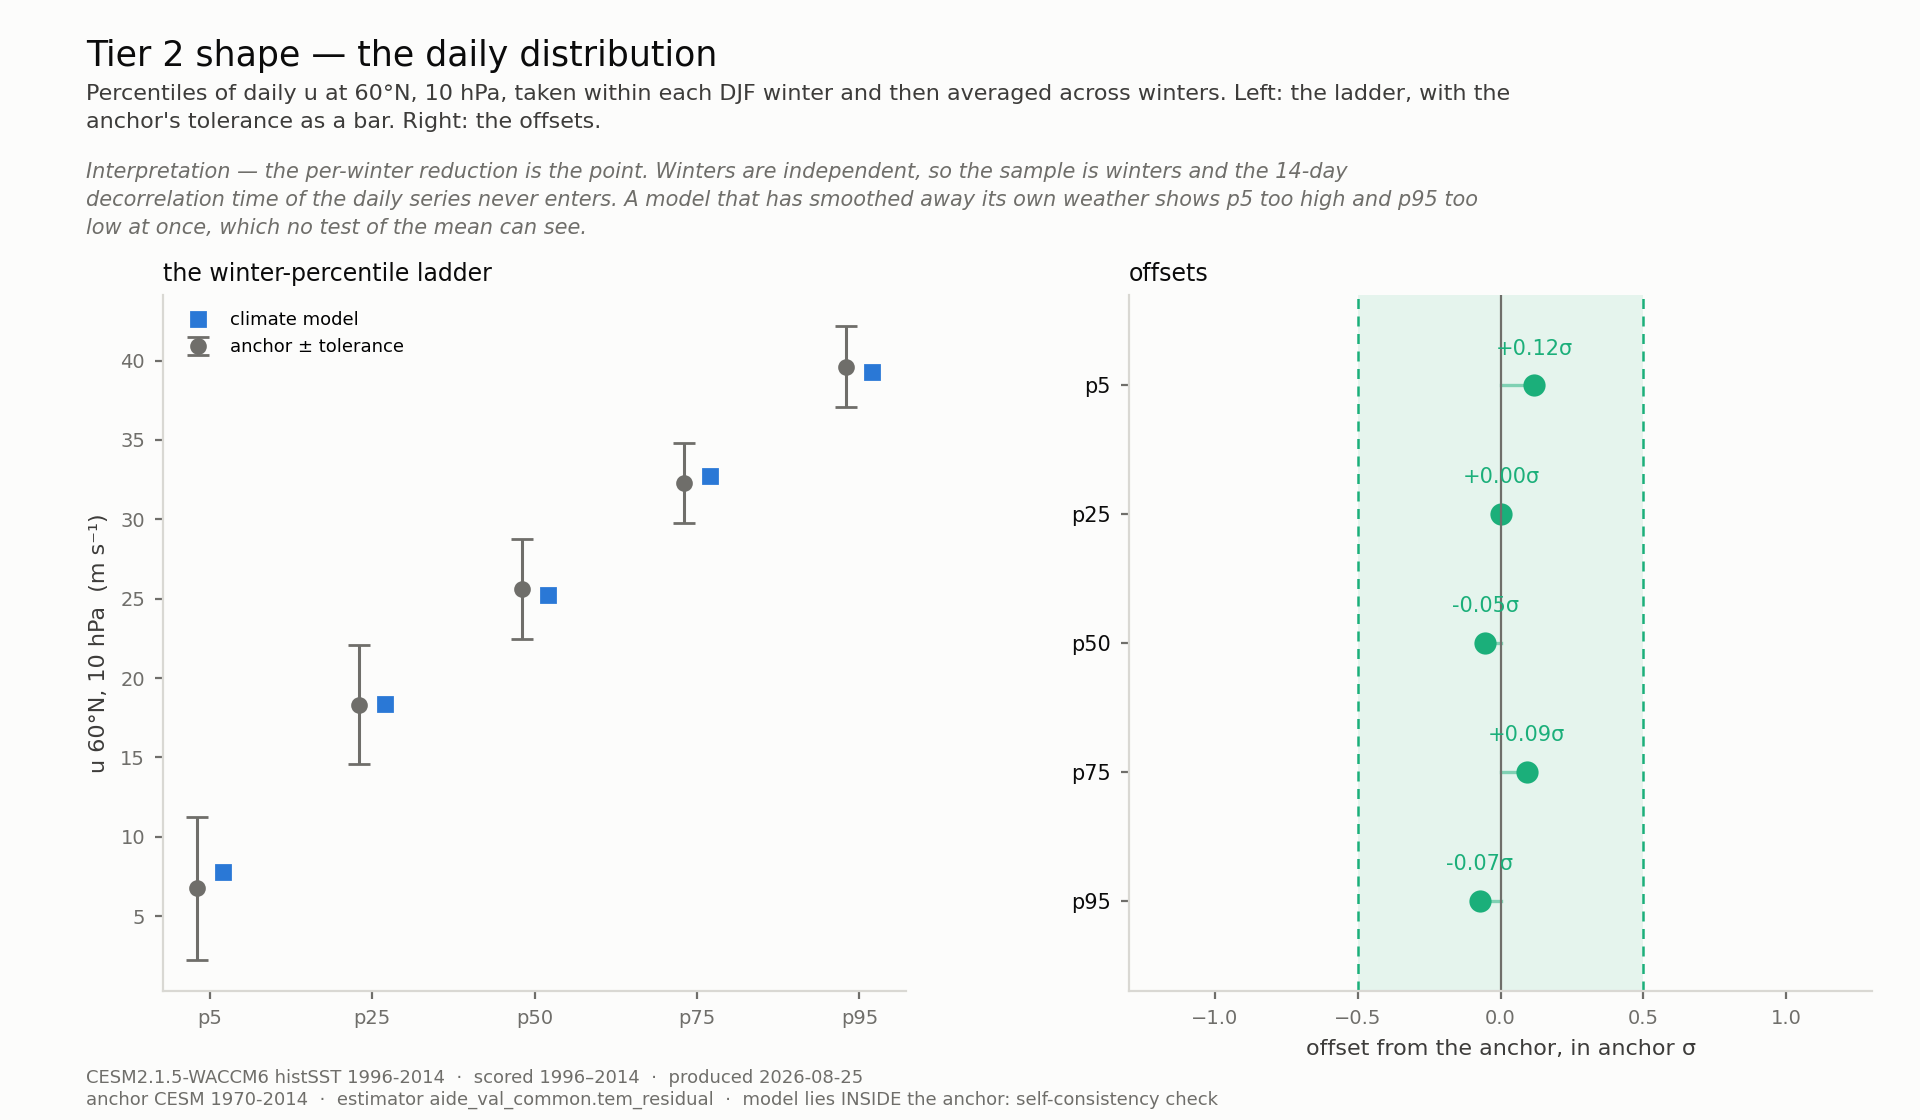
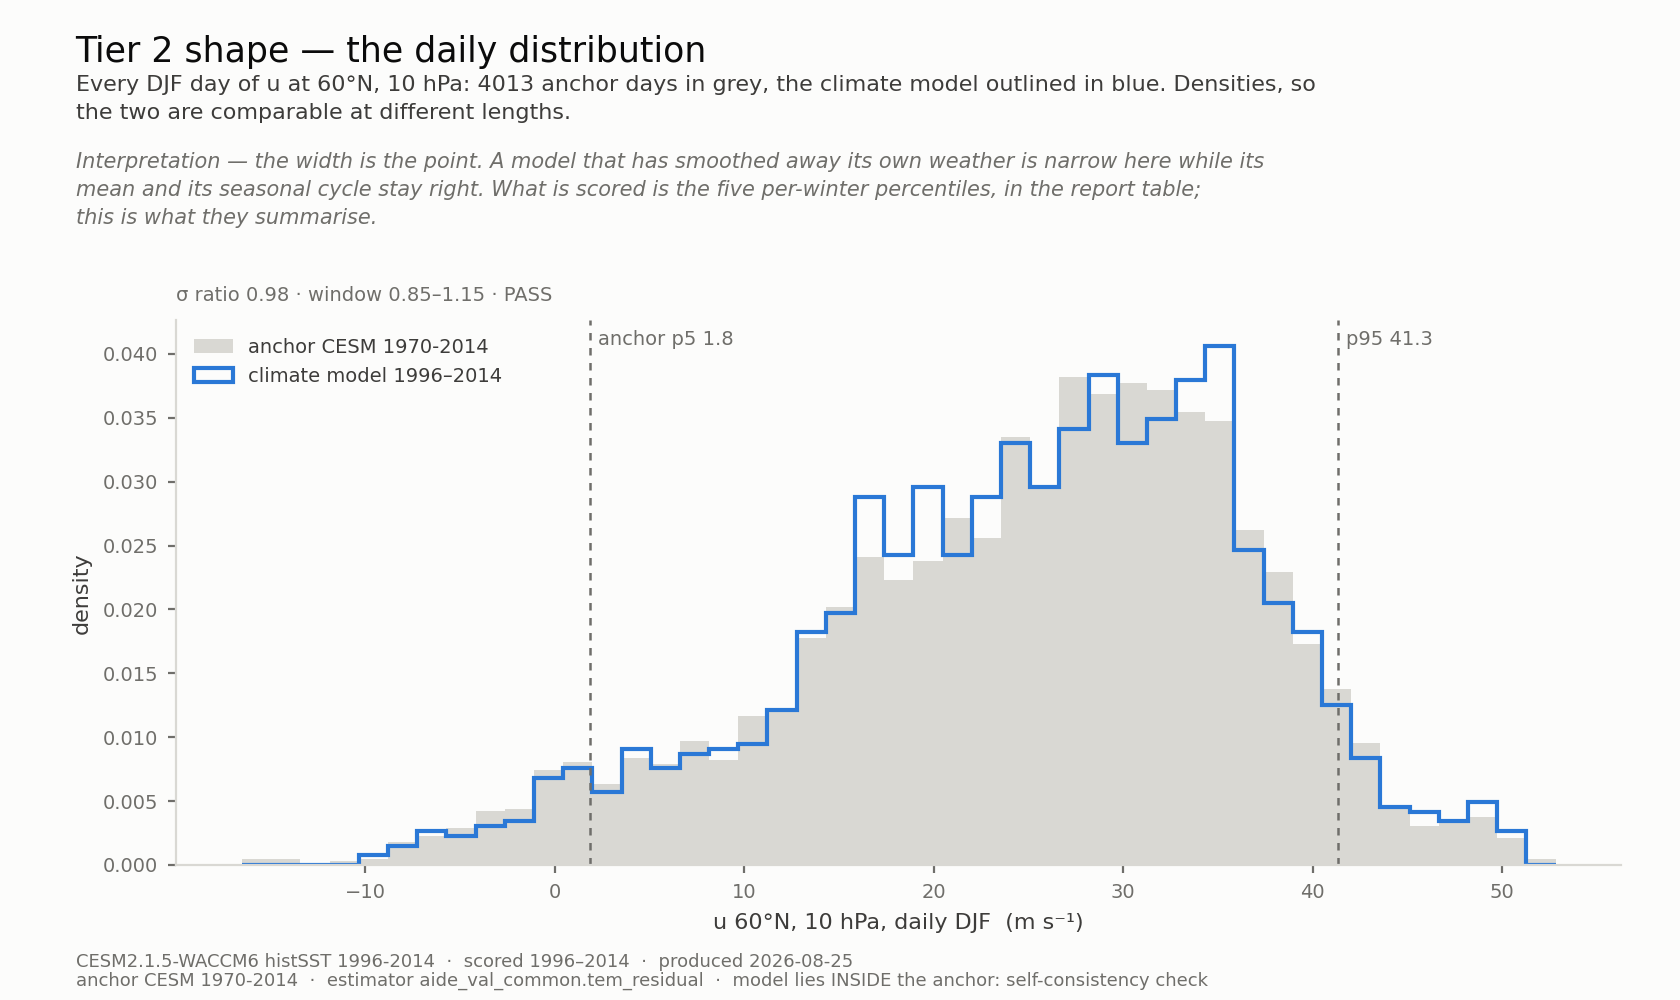
Make the daily distribution figure an actual distribution
It was a percentile ladder with error bars beside a panel of offsets in sigma -
two abstractions away from the thing being described. It is now one panel: the
density of every DJF day of u at 60N, anchor filled grey and climate model
outlined in blue on shared bins, with the anchor p5 and p95 marked and the
sigma ratio on the subtitle.

Densities rather than counts, so a 19-year model and a 45-year anchor are
comparable on the same axes. The five per-winter percentiles are still what is
scored and still in the report table; the interpretation line says so, since
the figure no longer shows a verdict.

The climate-model days are reconstructed under the rule 17 already applies -
the daily series carries no year labels, so it can only be subset when the
window covers whole segments - and the figure follows 17's own availability
verdict rather than re-deriving it. When the window is not segment-aligned the
anchor is drawn alone and the subtitle says why.

fig_daily_distribution now takes the series, so its signature gains (S, segs).

diff --git a/AIDE-atmosphere/scripts/18_validation_figures.py b/AIDE-atmosphere/scripts/18_validation_figures.py
@@ -317,43 +317,60 @@ def fig_seasonal(A, res):
 
 
 # ------------------------------------------------------- shape: daily distribution
-def fig_daily_distribution(A, res):
-    tau = A["daily_DJF_u60N"]["tau_days"]
-    fig = newfig(9.6, 5.6, "Tier 2 shape — the daily distribution",
-                 "Percentiles of daily u at 60°N, 10 hPa, taken within each DJF "
-                 "winter and then averaged across winters. Left: the ladder, with "
-                 "the anchor's tolerance as a bar. Right: the offsets.",
-                 f"the per-winter reduction is the point. Winters are independent, "
-                 f"so the sample is winters and the {tau:.0f}-day decorrelation time "
-                 f"of the daily series never enters. A model that has smoothed away "
-                 f"its own weather shows p5 too high and p95 too low at once, which "
-                 f"no test of the mean can see.")
-    gs = fig.add_gridspec(1, 2, wspace=0.30, width_ratios=[1.0, 1.0])
-    qs = list(A["daily_distribution"]["percentiles"].keys())
+def fig_daily_distribution(A, res, S, segs):
+    a = A["daily_DJF_u60N"]
+    m = res["tier2_variance"]["daily_DJF_u60N"]
+    lo, hi = res["climate_model_period"]
 
-    ax = style(fig.add_subplot(gs[0, 0]), "the winter-percentile ladder")
-    xs = np.arange(len(qs))
-    a_mu = [res["shape_daily_distribution"][q]["anchor"] for q in qs]
-    t_mu = [res["shape_daily_distribution"][q]["climate_model"] for q in qs]
-    tol = [res["shape_daily_distribution"][q]["tolerance"] for q in qs]
-    ax.errorbar(xs - 0.08, a_mu, yerr=tol, fmt="o", color=MUTED, ms=5, capsize=4,
-                lw=1.1, label="anchor ± tolerance")
-    ax.plot(xs + 0.08, t_mu, "s", color=BLUE, ms=5, label="climate model")
-    ax.set_xticks(xs); ax.set_xticklabels(qs, fontsize=7)
-    ax.set_ylabel("u 60°N, 10 hPa  (m s⁻¹)", color=INK2, fontsize=8)
-    ax.legend(fontsize=6.5, frameon=False, loc="upper left")
+    anchor = np.array(sum((S[s]["_u60n_djf_daily"] for s in segs), []), float)
+    # Same rule 17 applies: the daily series carries no year labels, so it can only
+    # be subset when the window covers whole segments. 17 has already decided that,
+    # so follow its verdict rather than re-deriving it.
+    model = None
+    if m.get("available", True):
+        model = np.array(sum((S[s]["_u60n_djf_daily"] for s in segs
+                              if np.asarray(S[s]["_annual_years"], float).min() >= lo
+                              and np.asarray(S[s]["_annual_years"], float).max() <= hi),
+                             []), float)
 
-    ax2 = style(fig.add_subplot(gs[0, 1]), "offsets")
-    keys = qs[::-1]
-    offs = [res["shape_daily_distribution"][q]["offset_in_sigma"] for q in keys]
-    for i, q in enumerate(keys):
-        _offset_row(ax2, i, res["shape_daily_distribution"][q])
-    _tolerance_axis(ax2, offs, "offset from the anchor, in anchor σ", len(keys))
-    ax2.set_yticks(range(len(keys)))
-    ax2.set_yticklabels(keys, fontsize=7.5, color=INK)
+    fig = newfig(8.4, 5.0, "Tier 2 shape — the daily distribution",
+                 f"Every DJF day of u at 60°N, 10 hPa: {len(anchor)} anchor days in "
+                 f"grey, the climate model outlined in blue. Densities, so the two "
+                 f"are comparable at different lengths.",
+                 "the width is the point. A model that has smoothed away its own "
+                 "weather is narrow here while its mean and its seasonal cycle stay "
+                 "right. What is scored is the five per-winter percentiles, in the "
+                 "report table; this is what they summarise.")
+    ax = style(fig.add_subplot(111), None,
+               f"σ ratio {m['ratio']:.2f} · window {m['window'][0]:.2f}–"
+               f"{m['window'][1]:.2f} · "
+               f"{'PASS' if m.get('passes') else 'n/a'}"
+               if m.get("available", True) else
+               "climate-model days unavailable: window is not segment-aligned")
 
-    fig.subplots_adjust(left=0.085, right=0.975, top=fig.text_bottom - 0.035,
-                        bottom=0.115)
+    span = (anchor.min(), anchor.max()) if model is None else (
+        min(anchor.min(), model.min()), max(anchor.max(), model.max()))
+    bins = np.linspace(span[0], span[1], 46)
+    ax.hist(anchor, bins=bins, density=True, color=RULE, lw=0,
+            label=f"anchor CESM {res['anchor_period']}")
+    if model is not None:
+        ax.hist(model, bins=bins, density=True, histtype="step", color=BLUE,
+                lw=1.5, label=f"climate model {lo}–{hi}")
+    for v, c, ls in ((a["p05"], MUTED, (0, (3, 3))), (a["p95"], MUTED, (0, (3, 3)))):
+        ax.axvline(v, color=c, lw=0.9, ls=ls)
+    ax.annotate(f"anchor p5 {a['p05']:.1f}", (a["p05"], 1.0),
+                xycoords=("data", "axes fraction"), textcoords="offset points",
+                xytext=(3, -9), color=MUTED, fontsize=7)
+    ax.annotate(f"p95 {a['p95']:.1f}", (a["p95"], 1.0),
+                xycoords=("data", "axes fraction"), textcoords="offset points",
+                xytext=(3, -9), color=MUTED, fontsize=7)
+    ax.set_xlabel("u 60°N, 10 hPa, daily DJF  (m s⁻¹)", color=INK2, fontsize=8)
+    ax.set_ylabel("density", color=INK2, fontsize=8)
+    lg = ax.legend(frameon=False, fontsize=7, loc="upper left")
+    for t in lg.get_texts():
+        t.set_color(INK2)
+    fig.subplots_adjust(left=0.105, right=0.965, top=fig.text_bottom - 0.075,
+                        bottom=0.135)
     footer(fig, res)
     save(fig, "shape_daily_distribution.png", res["stamp"])
 
@@ -445,7 +462,7 @@ def main():
     fig_variance(A, res)
     fig_counts(A, res)
     fig_seasonal(A, res)
-    fig_daily_distribution(A, res)
+    fig_daily_distribution(A, res, S, segs)
     fig_w_star_profile(A, res)
 
 

diff --git a/AIDE-atmosphere/scripts/17_validate.py b/AIDE-atmosphere/scripts/17_validate.py
@@ -77,7 +77,8 @@ FIGURES = [
     ("shape_seasonal.png",
      "seasonal cycle — the 12-month climatology of each diagnostic"),
     ("shape_daily_distribution.png",
-     "daily distribution — per-winter percentiles of u at 60°N against the anchor"),
+     "daily distribution — every DJF day of u at 60°N, climate model against the "
+     "anchor"),
     ("shape_w_star_profile.png",
      "tropical w* profile — absolute (advisory) and normalised (gated)"),
 ]

diff --git a/AIDE-atmosphere/validation_results/validation_result__CESM2.1.5-WACCM6-histSST-1996-2014__2026-08-25.md b/AIDE-atmosphere/validation_results/validation_result__CESM2.1.5-WACCM6-histSST-1996-2014__2026-08-25.md
@@ -138,7 +138,7 @@ The gate is on the profile divided by its own vertical mean, which cancels a mul
 | [tier2_variance__CESM2.1.5-WACCM6-histSST-1996-2014__2026-08-25.png](tier2_variance__CESM2.1.5-WACCM6-histSST-1996-2014__2026-08-25.png) | tier 2 variance — σ ratios against their 95% windows, interannual and daily |
 | [counts_and_relations__CESM2.1.5-WACCM6-histSST-1996-2014__2026-08-25.png](counts_and_relations__CESM2.1.5-WACCM6-histSST-1996-2014__2026-08-25.png) | major NH SSW count against the Poisson interval implied by the anchor rate |
 | [shape_seasonal__CESM2.1.5-WACCM6-histSST-1996-2014__2026-08-25.png](shape_seasonal__CESM2.1.5-WACCM6-histSST-1996-2014__2026-08-25.png) | seasonal cycle — the 12-month climatology of each diagnostic |
-| [shape_daily_distribution__CESM2.1.5-WACCM6-histSST-1996-2014__2026-08-25.png](shape_daily_distribution__CESM2.1.5-WACCM6-histSST-1996-2014__2026-08-25.png) | daily distribution — per-winter percentiles of u at 60°N against the anchor |
+| [shape_daily_distribution__CESM2.1.5-WACCM6-histSST-1996-2014__2026-08-25.png](shape_daily_distribution__CESM2.1.5-WACCM6-histSST-1996-2014__2026-08-25.png) | daily distribution — every DJF day of u at 60°N, climate model against the anchor |
 | [shape_w_star_profile__CESM2.1.5-WACCM6-histSST-1996-2014__2026-08-25.png](shape_w_star_profile__CESM2.1.5-WACCM6-histSST-1996-2014__2026-08-25.png) | tropical w* profile — absolute (advisory) and normalised (gated) |
 
 Figures are written by `scripts/18_validation_figures.py`, from the same two JSON files as the tables above.
